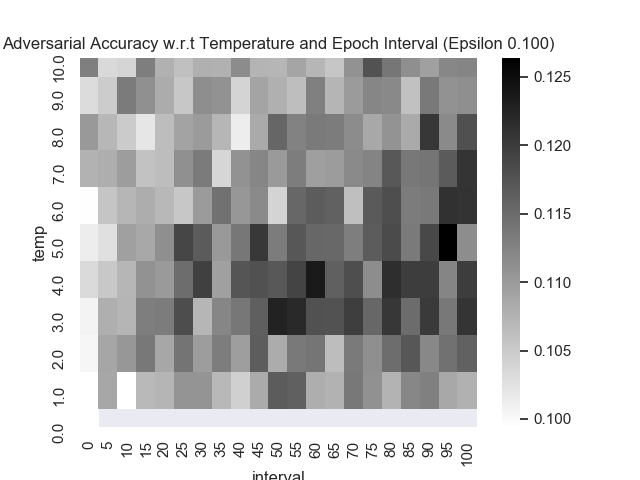
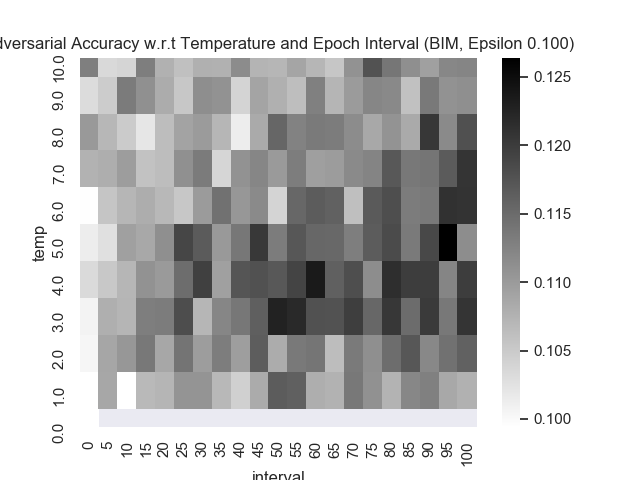
plotting update

Changed region(s): [[0.0, 0.0625, 0.9062, 0.125]]

diff --git a/post-experiment/ESKD-Analysis/AR Robustness/heatplot.py b/post-experiment/ESKD-Analysis/AR Robustness/heatplot.py
@@ -15,7 +15,7 @@ hm_data1 = pd.pivot_table(df_plot, values='eps_' + EPS,
                           columns='interval')
 plot = sns.heatmap(hm_data1, cmap='binary', vmin=df_min, vmax=df_max)
 plot.invert_yaxis()
-plt.title("Adversarial Accuracy w.r.t Temperature and Epoch Interval (Epsilon "+EPS+")")
+plt.title("Adversarial Accuracy w.r.t Temperature and Epoch Interval ("+ATTACK+", Epsilon "+EPS+")")
 fig = plot.get_figure()
 fig.savefig("AR_"+ATTACK+"_Eps_"+EPS+".png")
 plt.show()
